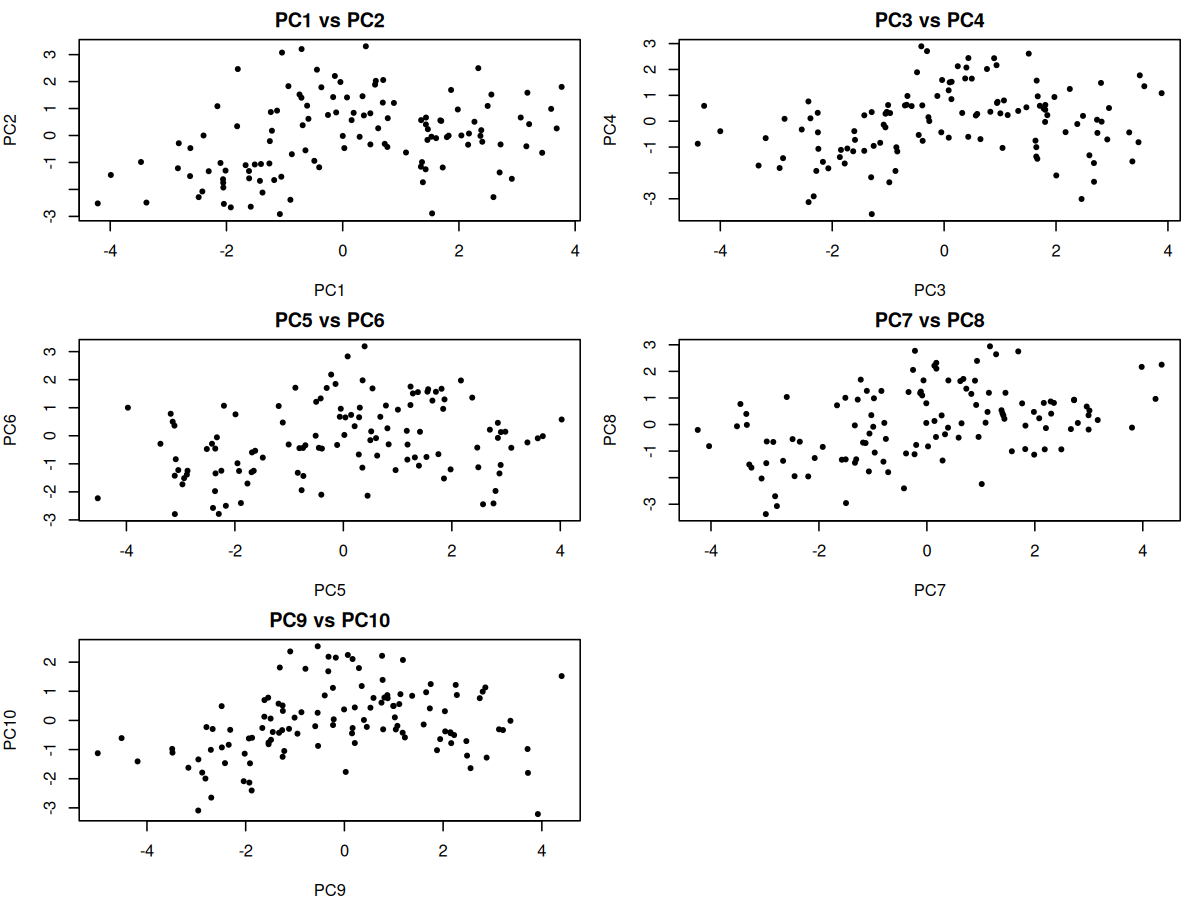
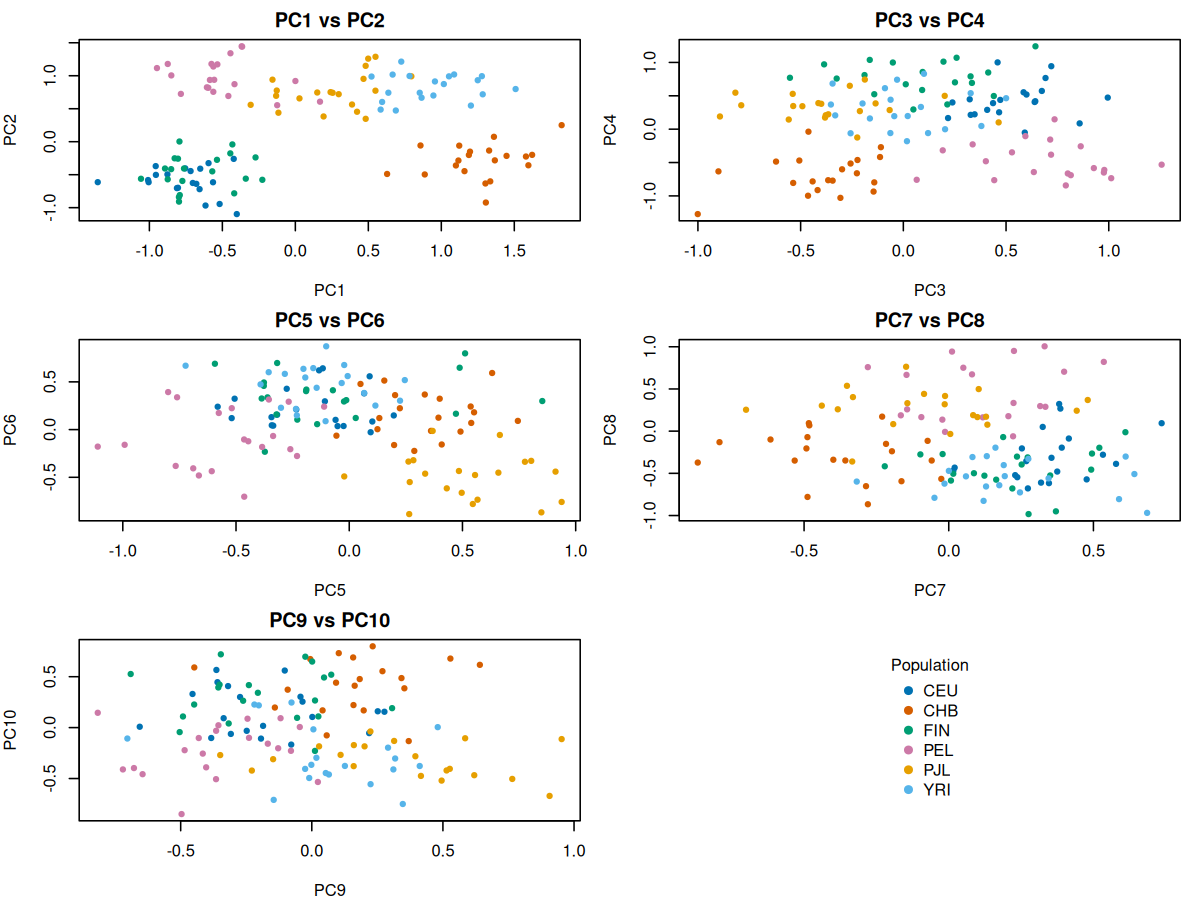
Add ADMIXTURE tutorial data notes

diff --git a/admixture/README.md b/admixture/README.md
@@ -15,15 +15,16 @@ This tutorial estimates ancestry proportions from called genotypes using ADMIXTU
 
 ## Input data
 
-This tutorial uses a called-genotype data set in PLINK binary format. The data set contains 434 individuals from five 1000 Genomes populations and 100,000 autosomal SNPs before filtering.
+This tutorial uses a called-genotype data set in PLINK binary format. The data set contains 120 individuals from six 1000 Genomes populations and 6,676,750 autosomal SNPs before filtering.
 
 | Population | Description | Individuals |
 | --- | --- | ---: |
-| ASW | African ancestry in Southwest US | 61 |
-| CEU | Utah residents with Northern/Western European ancestry | 99 |
-| CHB | Han Chinese in Beijing | 103 |
-| MXL | Mexican ancestry in Los Angeles | 63 |
-| YRI | Yoruba in Ibadan, Nigeria | 108 |
+| CEU | Utah residents with Northern/Western European ancestry | 20 |
+| CHB | Han Chinese in Beijing | 20 |
+| FIN | Finnish in Finland | 20 |
+| PEL | Peruvian in Lima, Peru | 20 |
+| PJL | Punjabi in Lahore, Pakistan | 20 |
+| YRI | Yoruba in Ibadan, Nigeria | 20 |
 
 Download the data into the local `data/` folder. The files are served from:
 
@@ -104,6 +105,8 @@ PCAone --help | head
 
 ## Prepare input
 
+### 1. Filter on MAF and missing genotypes
+
 First inspect the input data and apply simple genotype filters. The MAF cutoff removes rare variants that are not informative for this small teaching example. The missingness cutoff removes SNPs with more than 1% missing genotypes. These thresholds are reasonable here, but they are not universal; choose them based on sample size, genotyping technology, and the downstream question.
 
 ```bash
@@ -121,10 +124,11 @@ plink --bfile data/example \
 
 ```text
 PLINK v1.9
-... variants loaded from .bim file.
-... people loaded from .fam.
---geno: variants removed due to missing genotype data.
---maf: variants removed due to minor allele frequency threshold.
+6676750 variants loaded from .bim file.
+120 people (0 males, 0 females, 120 ambiguous) loaded from .fam.
+--geno: 0 variants removed due to missing genotype data.
+--maf: 0 variants removed due to minor allele frequency threshold.
+6676750 variants and 120 people pass filters and QC.
 --make-bed to results/example.qc.bed + results/example.qc.bim + results/example.qc.fam ... done.
 ```
 
@@ -132,11 +136,45 @@ PLINK v1.9
 
 This data set has population structure, so we do not use PLINK for LD pruning. Standard LD estimates can be confounded by ancestry differences. Instead, we use PCAone to estimate PCs, test HWE while accounting for structure, and prune using ancestry-adjusted LD.
 
+### 2. Estimate and visualize PCs with PCAone
+
 First run PCAone and save the top 10 PCs and SNP loadings. The PCs are later plotted to show whether the sample labels match the major axes of structure.
 
 ```bash
 PCAone -b results/example.qc -k 10 -V -o results/example.pcaone
 ```
+
+<details>
+<summary>Example stdout</summary>
+
+```text
+PCA All In One (PCAone)
+Input PLINK prefix: results/example.qc
+Number of samples: 120
+Number of SNPs: 6676750
+Number of PCs: 10
+Output: results/example.pcaone.eigvals
+Output: results/example.pcaone.eigvecs
+Output: results/example.pcaone.eigvecs2
+Output: results/example.pcaone.loadings
+Output: results/example.pcaone.mbim
+```
+
+</details>
+
+For visualization, use `results/example.pcaone.eigvecs2`, not the raw eigenvector matrix. PCAone's `eigvecs2` file is the plotting-friendly output with sample IDs and PC columns. The `eigvecs` file is still part of the PCAone `--USV` prefix used below for HWE correction.
+
+Run the plotting script after PCAone has finished:
+
+```bash
+Rscript code/02_plot_admixture.R
+```
+
+![PCAone top 10 PC pairs](figures/pcaone_top10_pc_pairs.png)
+
+Figure 1. PCAone PC plots for PC1 vs PC2, PC3 vs PC4, PC5 vs PC6, PC7 vs PC8, and PC9 vs PC10. Points are colored by the population label in the `.fam` file. These plots check whether population labels agree with the main axes of genetic structure before ancestry inference.
+
+### 3. HWE filtering and ancestry-adjusted LD pruning
 
 Next use the PCAone PCs/loadings to test HWE while accounting for population structure. The `.hwe` file contains one row per SNP, including an HWE P value and inbreeding coefficient. Here we keep SNPs with HWE P value at least `1e-6`; this threshold also depends on the data set and study design.
 
@@ -177,18 +215,27 @@ plink --bfile results/example.qc \
 <summary>Example stdout</summary>
 
 ```text
-PCA All In One (PCAone)
-Input: -b results/example.qc -k 10 -V -o results/example.pcaone
-Output: results/example.pcaone.eigvals
-Output: results/example.pcaone.eigvecs2
-Output: results/example.pcaone.loadings
-
 PCAone --inbreed 1
+Input PLINK prefix: results/example.qc
+Number of samples: 120
+Number of SNPs: 6676750
 Output: results/example.hwe.hwe
+The number of SNPs passing HWE P >= 1e-6 is written by the filtering command.
 
 PCAone adjusted LD pruning
+Input PLINK prefix: results/example.qc
+Number of samples: 120
+Number of SNPs: 6676750
 Output: results/example.adjld.ld.prune.in
 Output: results/example.adjld.ld.prune.out
+The number of retained SNPs is written to results/example.adjld.ld.prune.in.
+The final SNP count is the intersection of the HWE-passing and LD-pruned lists.
+
+PLINK v1.9
+6676750 variants loaded from .bim file.
+120 people loaded from .fam.
+--extract: final SNP count written by PLINK.
+--make-bed to results/example.pcaone_pruned.bed + results/example.pcaone_pruned.bim + results/example.pcaone_pruned.fam ... done.
 ```
 
 </details>
@@ -253,15 +300,11 @@ Rscript code/02_plot_admixture.R
 
 ![ADMIXTURE K3 ancestry proportions](figures/admixture_k3.png)
 
-Figure 1. ADMIXTURE ancestry barplot for `K=3`. Each vertical bar is one individual, and colors show inferred ancestry components. This PNG is generated from `results/example.pcaone_pruned.K3.seed1.Q` by `code/02_plot_admixture.R`.
+Figure 2. ADMIXTURE ancestry barplot for `K=3`. Each vertical bar is one individual, and colors show inferred ancestry components. This PNG is generated from `results/example.pcaone_pruned.K3.seed1.Q` by `code/02_plot_admixture.R`.
 
 ![ADMIXTURE convergence summary](figures/admixture_convergence.png)
 
-Figure 2. Convergence summary across seeds and K values. The meaningful `K` is not chosen from cross-validation error; the tutorial should compare convergence, ancestry plots, and evalAdmix residual correlations.
-
-![PCAone PC pairs](figures/pcaone_top10_pc_pairs.png)
-
-Figure 3. PCAone visualization of the top 10 PCs: PC1 vs PC2, PC3 vs PC4, PC5 vs PC6, PC7 vs PC8, and PC9 vs PC10. These plots show which axes capture the major population structure and help diagnose whether the data labels match the genotype structure.
+Figure 3. Convergence summary across seeds and K values. The meaningful `K` is not chosen from cross-validation error; the tutorial should compare convergence, ancestry plots, and evalAdmix residual correlations.
 
 The full plotting code is in `code/02_plot_admixture.R`. It writes:
 

diff --git a/tutorial_data/admixture/README.md b/tutorial_data/admixture/README.md
@@ -1,12 +1,12 @@
 # ADMIXTURE tutorial data
 
-Place large ADMIXTURE/PLINK input files here before mirroring them to:
+Large ADMIXTURE/PLINK input files for the tutorial are staged here before mirroring them to:
 
 ```text
 https://popgen.dk/albrecht/open/tutorial_data/admixture/
 ```
 
-Expected starter files:
+Current starter files:
 
 ```text
 example.bed
@@ -14,8 +14,10 @@ example.bim
 example.fam
 ```
 
-Optional files:
+The current `example.*` files are copied from the local 1000 Genomes reference panel at:
 
 ```text
-pop.info
+/home/albrecht/github/fastNGSadmix/data1000genomes/1000genomesRefPanel.*
 ```
+
+They contain 120 individuals from CEU, CHB, FIN, PEL, PJL, and YRI, with 20 individuals per population and 6,676,750 SNPs before tutorial filtering.
